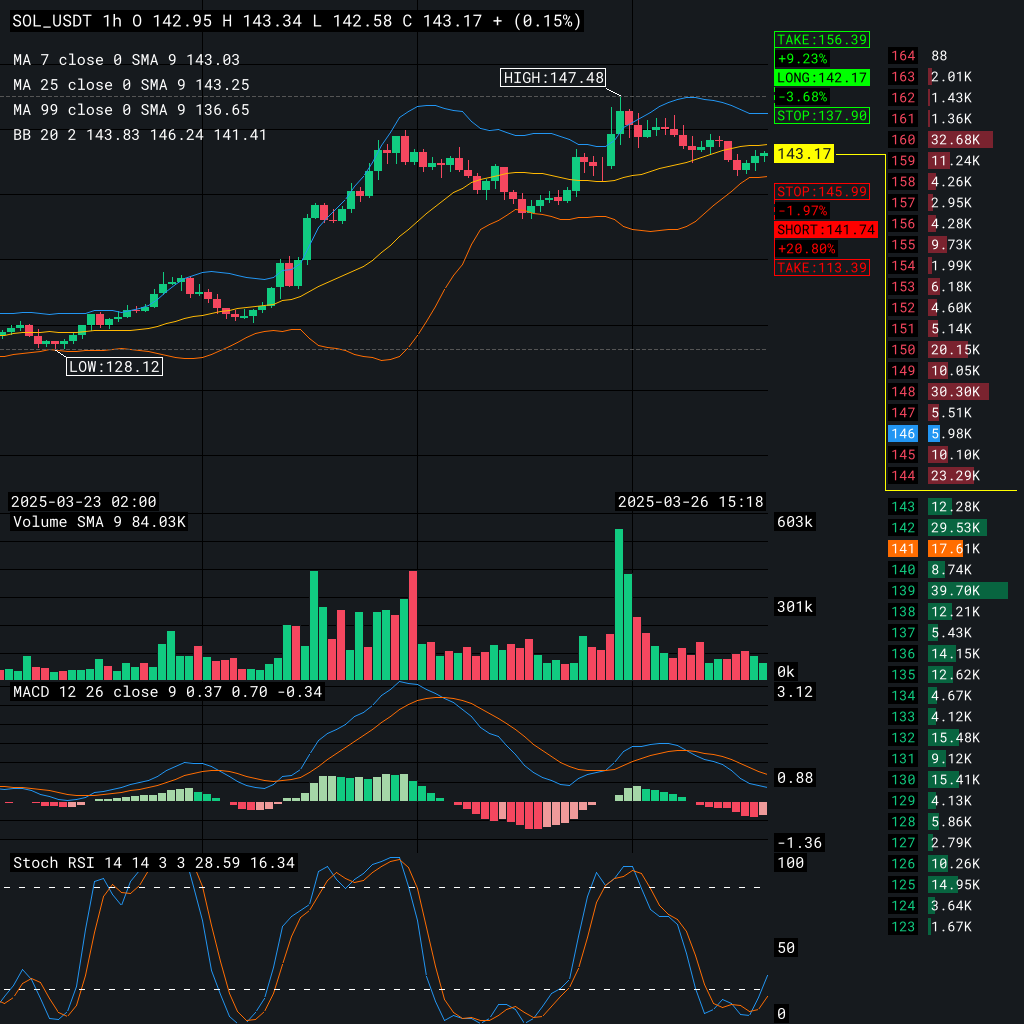
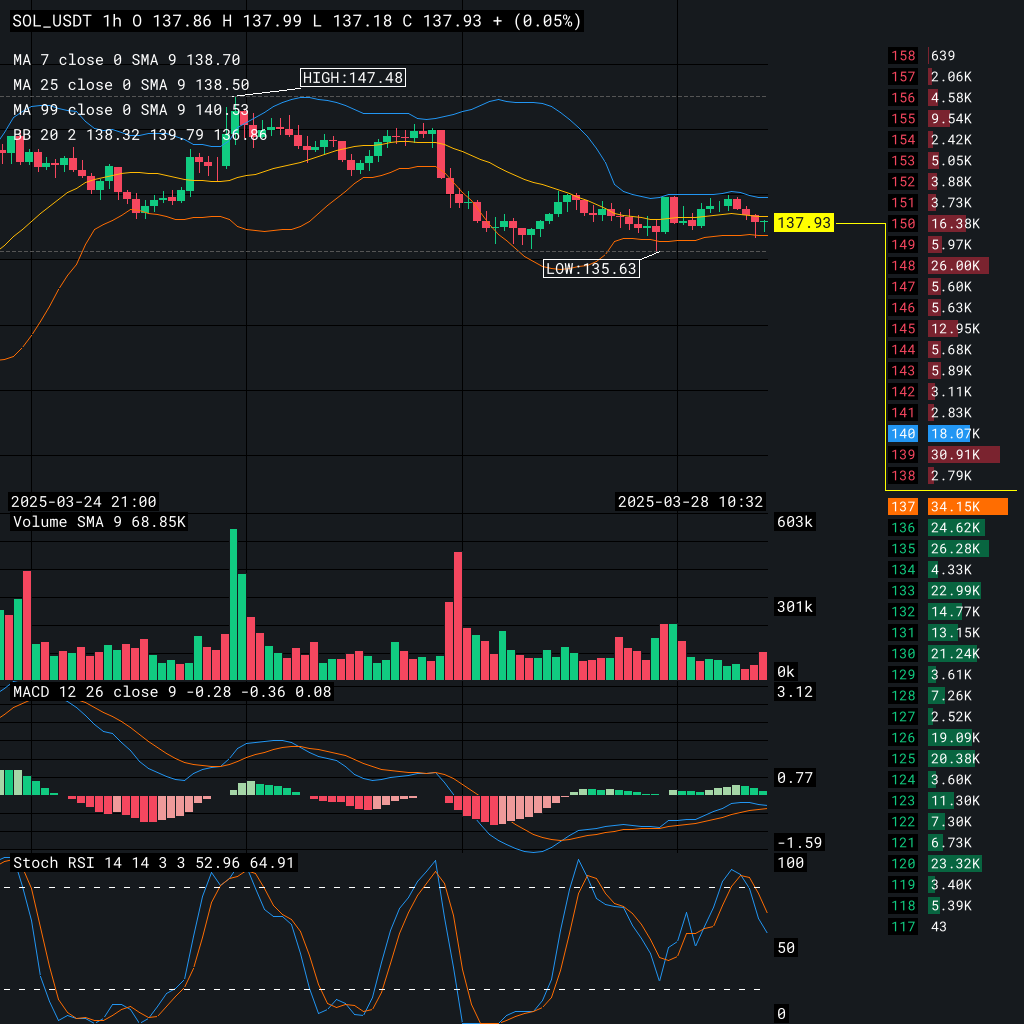
fix: no signals

diff --git a/feeder/src/charts/candle.rs b/feeder/src/charts/candle.rs
@@ -813,7 +813,7 @@ mod test {
             .with_stoch_rsi()
             .with_orderbook(orderbook)
             .with_bollinger_band()
-            .with_signals(signals)
+            // .with_signals(signals)
             .build()
             .unwrap();
 
